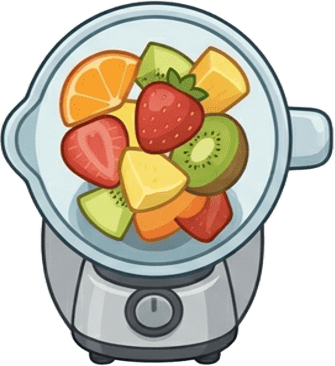
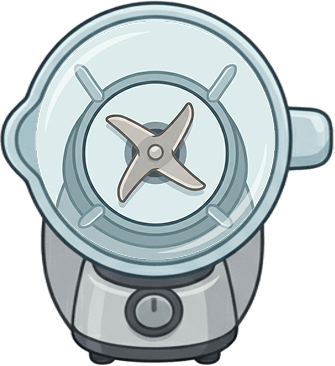
jaya

Changed region(s): [[0.1493, 0.0902, 0.7761, 0.7213], [0.806, 0.3907, 0.8358, 0.4208]]

diff --git a/chargeEffects.js b/chargeEffects.js
@@ -222,6 +222,132 @@ var CHARGE_EFFECTS = {
             if (p._fx.fanBlade) { scene.tweens.killTweensOf(p._fx.fanBlade); p._fx.fanBlade.destroy(); p._fx.fanBlade = null; }
             if (p._fx.fanGrill) { scene.tweens.killTweensOf(p._fx.fanGrill); p._fx.fanGrill.destroy(); p._fx.fanGrill = null; }
         }
+    },
+
+    // ── BLENDER ───────────────────────────────────────────────────────────────
+    // A blender whose base sprite (blender.png) shows the jar, with six "swirl"
+    // images (swirl1..swirl6) stacked on top — the fruit/contents being blended.
+    // All six swirls share a single spinning angle (so the spin speed never jumps),
+    // and we alpha-blend between consecutive swirls as charge fills: swirl1 is shown
+    // near empty, swirl6 near full, cross-fading through the middle instead of hard
+    // switching at every 1/6 of the phase. The spin starts slow and accelerates with
+    // charge, just like a real blender ramping up.
+    blender: {
+        assets(params) {
+            const out = {};
+            for (let i = 1; i <= 6; i++) {
+                out[`swirl${i}`] = (params.swirls && params.swirls[i - 1]) || `blender/swirl${i}.png`;
+            }
+            return out;
+        },
+
+        init(scene, p, params) {
+            p._fx = p._fx || {};
+
+            const bodyKey = `gadget_${p._gadgetName}_normal`;
+            if (!scene.textures.exists(bodyKey)) return;
+
+            // Match the scale the body sprite was drawn at, so the swirls keep their
+            // real proportions relative to the jar.
+            const bodyImg = scene.textures.get(bodyKey).getSourceImage();
+            const scale   = p._gadgetDisplayWidth / bodyImg.width;
+
+            // Body's top-left in world space (body is centred on the origin). Each
+            // swirl is pinned to the body's top-left at offset (0,0) — its top-left
+            // lands on the jar's top-left — while still rotating about its own centre.
+            const bodyLeft = p._gadgetOriginX - p._gadgetDisplayWidth  / 2;
+            const bodyTop  = p._gadgetOriginY - p._gadgetDisplayHeight / 2;
+            const baseDepth = (p.gadgetSprite ? p.gadgetSprite.depth : 4);
+
+            const swirls = [];
+            for (let i = 1; i <= 6; i++) {
+                const key = `fx_${p._gadgetName}_swirl${i}`;
+                if (!scene.textures.exists(key)) { swirls.push(null); continue; }
+                const img = scene.textures.get(key).getSourceImage();
+                const w = img.width  * scale;
+                const h = img.height * scale;
+                // origin 0.5 → centre placed so the top-left sits at the body's top-left
+                const s = scene.add.image(bodyLeft + w / 2, bodyTop + h / 2, key)
+                    .setDepth(baseDepth + 0.05 + i * 0.001)
+                    .setAlpha(0);
+                s.setDisplaySize(w, h);
+                swirls.push(s);
+            }
+            // swirl1 is the initial contents, visible from the start.
+            if (swirls[0]) swirls[0].setAlpha(1);
+
+            // One infinite spin shared by every swirl: a single tween over all of them
+            // guarantees they rotate in lock-step, so cross-fading never reveals a speed
+            // mismatch. We throttle its timeScale from ~0 up to maxRpm as charge fills.
+            // At timeScale 1 the tween turns once per baseRevMs (= 60 rpm).
+            const baseRevMs = 1000;
+            const spinnable = swirls.filter(Boolean);
+            const spin = spinnable.length ? scene.tweens.add({
+                targets: spinnable, angle: '+=360',
+                duration: baseRevMs, repeat: -1, ease: 'Linear'
+            }) : null;
+            if (spin) spin.timeScale = 0;
+
+            p._fx.blenderSwirls   = swirls;
+            p._fx.blenderSpin     = spin;
+            p._fx.blenderSpeedTween = null;
+            p._fx.blenderMinRpm   = params.minRpm  ?? 18;    // small starting crawl
+            p._fx.blenderMaxRpm   = params.maxRpm  ?? 900;   // full-blast top speed
+            p._fx.blenderRampExp  = params.rampExp ?? 2.0;   // >1 = slow early, ramps later
+            p._fx.blenderSmoothMs = params.speedSmoothMs ?? 1000; // glide-to-target time
+            p._fx.blenderBaseRpm  = 60000 / baseRevMs;       // rpm at timeScale 1
+        },
+
+        onProgress(scene, p, progress, params) {
+            if (!p._fx) return;
+            const swirls = p._fx.blenderSwirls;
+            const mark = CONFIG.PLATFORM.OPERATING_CAPACITY_MARK || 1;
+            const t    = Math.min(progress / mark, 1);   // 0 → 1 by the mark, then held
+
+            // ── Switch the contents ──────────────────────────────────────────────
+            // Show exactly one swirl for the current 1/6 division, switching instantly
+            // at each 1/6 boundary (swirl1 in [0,1/6), … swirl6 in [5/6,1]).
+            if (swirls) {
+                const n = swirls.length;                 // 6
+                const active = Math.min(n - 1, Math.floor(t * n));
+                for (let i = 0; i < n; i++) {
+                    if (!swirls[i]) continue;
+                    swirls[i].setAlpha(i === active ? 1 : 0);
+                }
+            }
+
+            // ── Spin speed ───────────────────────────────────────────────────────
+            // Ease the curve (t^rampExp) so the blade keeps accelerating across the
+            // whole fill, then glide the spin's timeScale toward the new target
+            // (MoveTowards-style) instead of snapping when charge arrives in steps.
+            const spin = p._fx.blenderSpin;
+            if (!spin) return;
+            const eased  = Math.pow(t, p._fx.blenderRampExp);
+            const rpm    = p._fx.blenderMinRpm + (p._fx.blenderMaxRpm - p._fx.blenderMinRpm) * eased;
+            const target = rpm / p._fx.blenderBaseRpm;
+
+            if (p._fx.blenderSpeedTween) p._fx.blenderSpeedTween.remove();
+            p._fx.blenderSpeedTween = scene.tweens.add({
+                targets: spin, timeScale: target,
+                duration: p._fx.blenderSmoothMs, ease: 'Linear'
+            });
+        },
+
+        onOvercharge() { /* keep blending until the explosion/cleanup tears it down */ },
+
+        cleanup(scene, p) {
+            if (!p._fx) return;
+            if (p._fx.blenderSpeedTween) { p._fx.blenderSpeedTween.remove(); p._fx.blenderSpeedTween = null; }
+            if (p._fx.blenderSpin) { p._fx.blenderSpin.remove(); p._fx.blenderSpin = null; }
+            if (p._fx.blenderSwirls) {
+                p._fx.blenderSwirls.forEach(s => {
+                    if (!s) return;
+                    scene.tweens.killTweensOf(s);
+                    s.destroy();
+                });
+                p._fx.blenderSwirls = null;
+            }
+        }
     }
 };
 

diff --git a/gadgetData.js b/gadgetData.js
@@ -249,6 +249,26 @@ var GADGET_SPRITES = [
             "rampExp": 2.0   // >1 = slow early, keeps accelerating as charge fills
         }
     },
+    {
+        // Blender: blender.png is the base jar; the "blender" charge effect layers
+        // six swirl images (the contents) on top, cross-fading swirl1→swirl6 as it
+        // charges while a shared spin accelerates from a slow crawl to full blast.
+        "name": "blender",
+        "normal_sprite": "blender/blender.png",
+        "burnedout_sprite": "blender/blender.png",
+        "connection_height": 0.3,
+        "connection_left_padding": 0.5,
+        "charge_effect": "blender",
+        "charge_effect_params": {
+            "swirls": [
+                "blender/swirl1.png", "blender/swirl2.png", "blender/swirl3.png",
+                "blender/swirl4.png", "blender/swirl5.png", "blender/swirl6.png"
+            ],
+            "minRpm": 18,    // small starting crawl
+            "maxRpm": 500,   // full-blast top speed
+            "rampExp": 2.0   // >1 = slow early, keeps accelerating as charge fills
+        }
+    },
 ];
 
 // ============================================================
@@ -258,15 +278,18 @@ var GADGET_SPRITES = [
 // Swap entries here to rearrange levels — no need to touch GADGET_SPRITES.
 // Cycles back to the start once levels run past the end of this list.
 var GADGET_LEVEL_ORDER = [
+    "blender",
     "washing_machine",
     "table_fan",
     "sewing_machine",
+    "brush",
+    
     "bluetooth_speaker",
     "cooktop",
         "bulb",
     
 
-    "brush",
+    
     "radio",
     "phone",
     "laptop",
